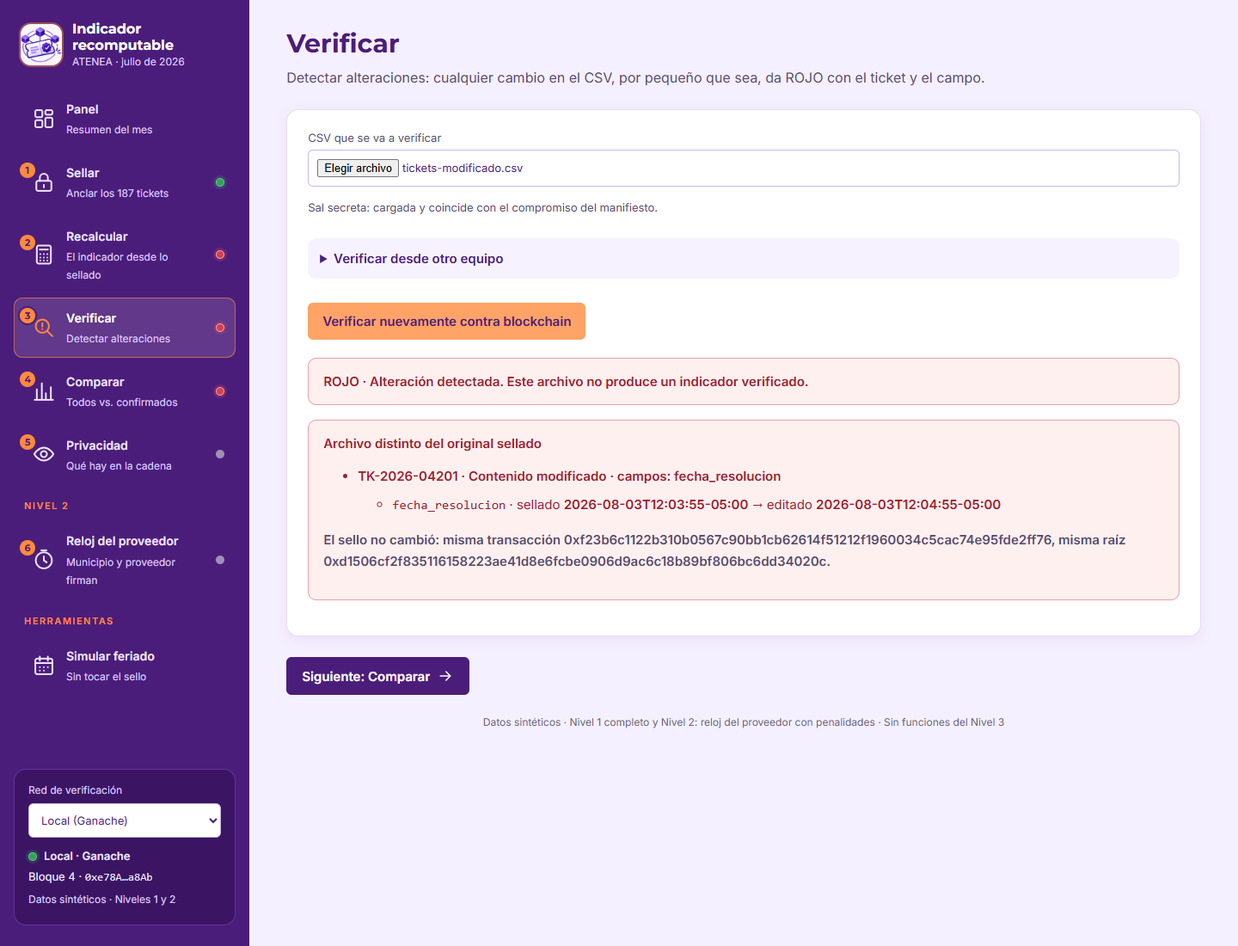
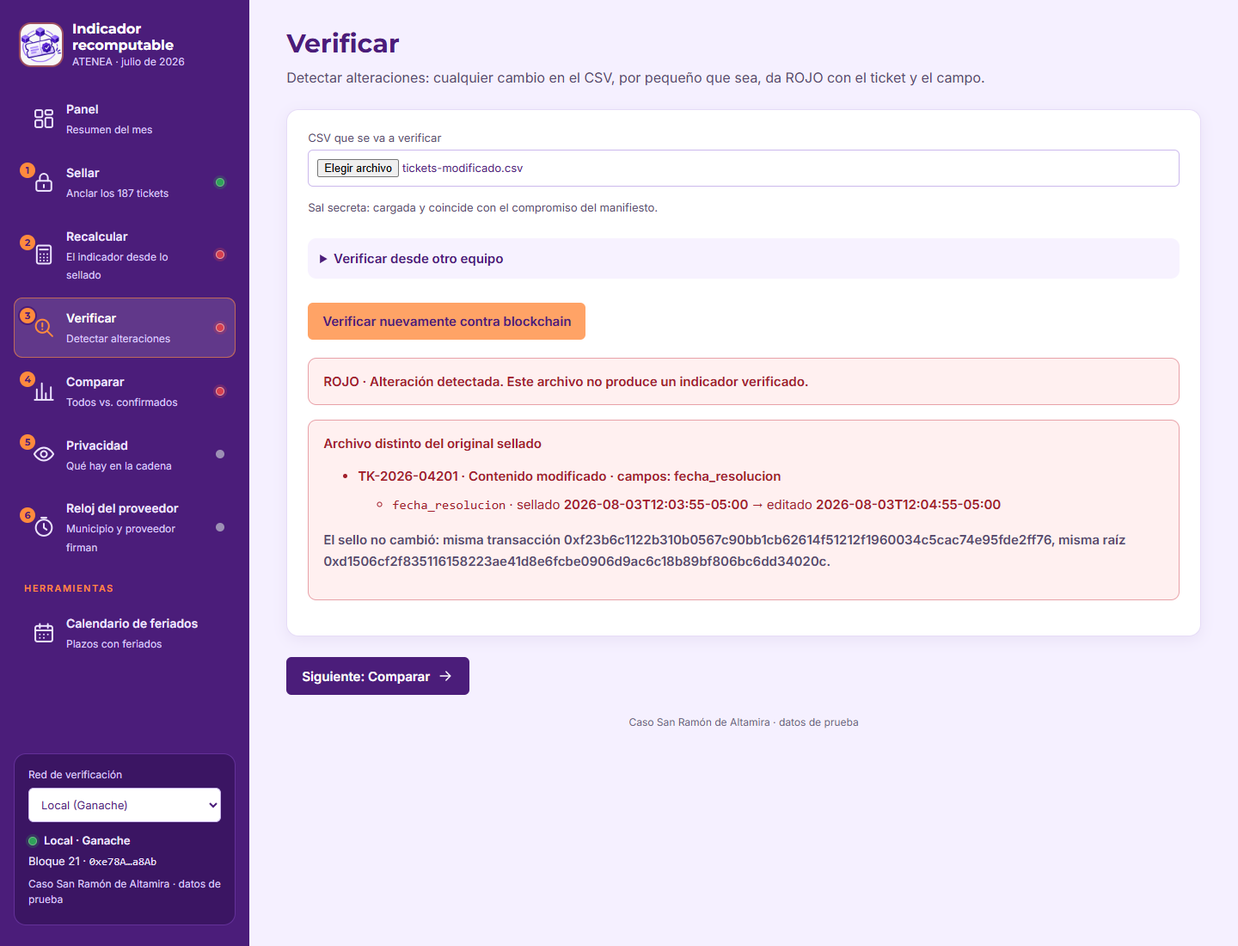
Fase 7: pulido de producto
- Lenguaje: sin «demo», «guion», «brief», «Nivel 1/2», «supuesto declarado», nombres de
  archivo ni «red de desarrollo real» en la interfaz. «Guion de la demo» → «Verificación
  del mes»; sin la etiqueta «NIVEL 2» en el menú; pie y tarjeta de red: «Caso San Ramón de
  Altamira · datos de prueba». Las fichas de reglas muestran los valores de POLICY en
  lenguaje de operación, sin cambiar POLICY.
- Sellar: con julio sellado el botón dice «✓ Julio ya está sellado» con estilo de estado
  completado y una línea sobre el sello único e inmutable; antes de cargar, «Primero carga
  los originales». No cambia cuándo se habilita.
- Comparar: columna «Plazo (SLA)» con «Calculado» y «Declarado», ayuda ⓘ y filas marcadas
  cuando no coinciden (o cuando la bitácora corrige el plazo).
- Reloj del proveedor: «Proveedor 1/2» con la razón social debajo; en la cadena no cambia nada.
- «Calendario de feriados»: rango explicado, varios feriados, aviso de fin de semana y de
  fecha sin efecto, fuera de rango y duplicados; si falta la verificación se recalcula sola
  y, si no hay sello, indica «Primero recalcula el indicador» con un botón.
- audit.mjs: solo dos textos (Proveedor 1 y el nombre de la vista de feriados).
- npm test 58/58; verify:source 11/11. Auditoría en instancia nueva (nivel2-auditoria-f7):
  1, 2, 4, 5 y Nivel 2 APROBADO; 3 aprobado en automático (la edición manual está atada al
  sello de nivel1-v5-auditoria). Registro oficial regenerado en nivel1-v5-auditoria: 5/5 y
[…]

Changed region(s): [[0.0, 0.8036, 0.1875, 0.9582], [0.0, 0.5255, 0.1562, 0.7418], [0.4062, 0.7418, 0.8125, 0.7727]]

diff --git a/src/index.html b/src/index.html
@@ -3,7 +3,7 @@
 <head>
 <meta charset="utf-8">
 <meta name="viewport" content="width=device-width,initial-scale=1">
-<title>ATENEA · Indicador recomputable · Nivel 1</title>
+<title>ATENEA · Indicador recomputable</title>
 <link rel="icon" type="image/png" href="/src/logo.png">
 <link rel="preload" href="/src/inter-latin-400-normal.woff2" as="font" type="font/woff2" crossorigin>
 <link rel="preload" href="/src/montserrat-latin-700-normal.woff2" as="font" type="font/woff2" crossorigin>
@@ -45,7 +45,7 @@
     <button id="menuClose" class="iconbutton close" type="button" data-ui aria-label="Cerrar menú"><svg class="icon"><use href="#i-close"/></svg></button>
   </div>
 
-  <nav aria-label="Procesos de la demostración">
+  <nav aria-label="Procesos del indicador">
     <ul class="menu">
       <li><a href="#/panel" data-route="panel"><svg class="icon"><use href="#i-panel"/></svg><span class="item"><strong>Panel</strong><small>Resumen del mes</small></span></a></li>
       <li><a href="#/sellar" data-route="sellar"><span class="menu-ico"><svg class="icon"><use href="#i-lock"/></svg><span class="menu-num" aria-hidden="true">1</span></span><span class="item"><strong>Sellar</strong><small>Anclar los 187 tickets</small></span><span class="dot" data-dot="sellar" role="img" aria-label="Estado: pendiente"></span></a></li>
@@ -53,14 +53,11 @@
       <li><a href="#/verificar" data-route="verificar"><span class="menu-ico"><svg class="icon"><use href="#i-search"/></svg><span class="menu-num" aria-hidden="true">3</span></span><span class="item"><strong>Verificar</strong><small>Detectar alteraciones</small></span><span class="dot" data-dot="verificar" role="img" aria-label="Estado: pendiente"></span></a></li>
       <li><a href="#/comparar" data-route="comparar"><span class="menu-ico"><svg class="icon"><use href="#i-compare"/></svg><span class="menu-num" aria-hidden="true">4</span></span><span class="item"><strong>Comparar</strong><small>Todos vs. confirmados</small></span><span class="dot" data-dot="comparar" role="img" aria-label="Estado: pendiente"></span></a></li>
       <li><a href="#/privacidad" data-route="privacidad"><span class="menu-ico"><svg class="icon"><use href="#i-eye"/></svg><span class="menu-num" aria-hidden="true">5</span></span><span class="item"><strong>Privacidad</strong><small>Qué hay en la cadena</small></span><span class="dot" data-dot="privacidad" role="img" aria-label="Estado: pendiente"></span></a></li>
-    </ul>
-    <p class="menu-sep">Nivel 2</p>
-    <ul class="menu">
       <li><a href="#/proveedor" data-route="proveedor"><span class="menu-ico"><svg class="icon"><use href="#i-clock"/></svg><span class="menu-num" aria-hidden="true">6</span></span><span class="item"><strong>Reloj del proveedor</strong><small>Municipio y proveedor firman</small></span><span class="dot" data-dot="proveedor" role="img" aria-label="Estado: pendiente"></span></a></li>
     </ul>
     <p class="menu-sep">Herramientas</p>
     <ul class="menu">
-      <li><a href="#/feriado" data-route="feriado"><svg class="icon"><use href="#i-calendar"/></svg><span class="item"><strong>Simular feriado</strong><small>Sin tocar el sello</small></span></a></li>
+      <li><a href="#/feriado" data-route="feriado"><svg class="icon"><use href="#i-calendar"/></svg><span class="item"><strong>Calendario de feriados</strong><small>Plazos con feriados</small></span></a></li>
     </ul>
   </nav>
 
@@ -69,7 +66,7 @@
     <select id="network"><option value="local">Local (Ganache)</option><option value="sepolia">Pública (Sepolia)</option></select>
     <p class="netline"><span id="rpcDot" class="dot gray" role="img" aria-label="RPC: sin comprobar"></span><span id="netName">Conectando…</span></p>
     <p class="netmeta">Bloque <span id="netBlock">—</span> · <span id="netContract" class="hash">—</span></p>
-    <p class="netnote">Datos sintéticos · Niveles 1 y 2</p>
+    <p class="netnote">Caso San Ramón de Altamira · datos de prueba</p>
   </div>
 </aside>
 
@@ -85,17 +82,17 @@
     <article class="card stat"><h2>Brecha A − B</h2><p class="stat-value" id="sumGap">—</p><p class="small">Puntos porcentuales entre todos los cierres y los confirmados.</p></article>
   </div>
   <div class="card">
-    <h2>Guion de la demo</h2>
+    <h2>Verificación del mes</h2>
     <ol id="demoScript" class="script">
       <li data-step="1"><span class="check" role="img" aria-label="Pendiente"><svg class="icon"><use href="#i-check"/></svg></span><span><a href="#/sellar">Sellar julio</a><small>Los <strong>187</strong> tickets quedan anclados en la blockchain.</small></span></li>
       <li data-step="2"><span class="check" role="img" aria-label="Pendiente"><svg class="icon"><use href="#i-check"/></svg></span><span><a href="#/recalcular">Recalcular</a><small>Desde lo sellado: <strong>no da 98,25 %</strong>.</small></span></li>
       <li data-step="3"><span class="check" role="img" aria-label="Pendiente"><svg class="icon"><use href="#i-check"/></svg></span><span><a href="#/verificar">Detectar una alteración</a><small>Un CSV editado a mano da <strong>ROJO</strong> y señala el ticket.</small></span></li>
       <li data-step="4"><span class="check" role="img" aria-label="Pendiente"><svg class="icon"><use href="#i-check"/></svg></span><span><a href="#/comparar">Comparar</a><small>Todos los cierres frente a solo los confirmados.</small></span></li>
       <li data-step="5"><span class="check" role="img" aria-label="Pendiente"><svg class="icon"><use href="#i-check"/></svg></span><span><a href="#/privacidad">Privacidad</a><small>Ningún nombre ni contenido de ticket en la cadena.</small></span></li>
-      <li data-step="6"><span class="check" role="img" aria-label="Pendiente"><svg class="icon"><use href="#i-check"/></svg></span><span><a href="#/proveedor">Reloj del proveedor · Nivel 2</a><small>Penalidades de <strong>2.592 USD</strong> y el caso con tiempo negativo <strong>RECHAZADO</strong>.</small></span></li>
+      <li data-step="6"><span class="check" role="img" aria-label="Pendiente"><svg class="icon"><use href="#i-check"/></svg></span><span><a href="#/proveedor">Reloj del proveedor</a><small>Penalidades de <strong>2.592 USD</strong> y el caso con tiempo negativo <strong>RECHAZADO</strong>.</small></span></li>
     </ol>
   </div>
-  <aside class="notice"><strong>Universo del reto: los 187 tickets originales.</strong> <span id="scopeNote">El lote incluye reportes fuera de julio. Los conteos se muestran al validar los originales. Se usa el estado final del lote, no un corte calendario estricto.</span></aside>
+  <aside class="notice"><strong>Universo: los 187 tickets del lote de julio.</strong> <span id="scopeNote">El lote incluye reportes fuera de julio. Los conteos se muestran al validar los originales. Se usa el estado final del lote, no un corte calendario estricto.</span></aside>
 </section>
 
 <section id="s1" class="view" data-route="sellar" aria-labelledby="t-sellar" hidden>
@@ -103,14 +100,15 @@
   <div class="card">
     <p>Se valida cada archivo contra la huella de la carpeta fuente verificada. Cada columna de los tickets participa en el compromiso; del catálogo, el reporte publicado, la bitácora y las reaperturas solo entra su SHA-256. Una verificación posterior no puede cambiar el sello.</p>
     <div class="actions"><button id="load">Cargar los originales entregados</button><button id="seal" disabled>Sellar julio en blockchain</button></div>
+    <p id="sealHint" class="small seal-hint" aria-live="polite">Primero carga los originales.</p>
     <details><summary>Seleccionar los originales a mano</summary>
       <p class="small">Sus huellas deben coincidir con las de la carpeta fuente verificada.</p>
       <div class="inputs">
-        <label>tickets.csv<input id="originalTickets" type="file" accept=".csv"></label>
-        <label>catalogo_servicios.csv<input id="originalCatalog" type="file" accept=".csv"></label>
-        <label>indicador_mensual.csv<input id="originalReport" type="file" accept=".csv"></label>
-        <label>bitacora_eventos.csv<input id="originalBitacora" type="file" accept=".csv"></label>
-        <label>reaperturas.csv<input id="originalReopenings" type="file" accept=".csv"></label>
+        <label>Tickets<input id="originalTickets" type="file" accept=".csv"></label>
+        <label>Catálogo de servicios<input id="originalCatalog" type="file" accept=".csv"></label>
+        <label>Reporte mensual publicado<input id="originalReport" type="file" accept=".csv"></label>
+        <label>Bitácora de eventos<input id="originalBitacora" type="file" accept=".csv"></label>
+        <label>Reaperturas<input id="originalReopenings" type="file" accept=".csv"></label>
       </div>
       <button id="prepareFiles">Validar originales seleccionados</button>
     </details>
@@ -159,7 +157,7 @@
     <p id="saltStatus" class="small">Sal secreta: pendiente.</p>
     <details><summary>Verificar desde otro equipo</summary>
       <p class="small">En el equipo donde se selló, la evidencia y la sal se cargan solas. En otro equipo o navegador, impórtalas aquí.</p>
-      <div class="inputs"><label>Importar evidencia original (respaldo del sellado)<input id="evidenceFile" type="file" accept=".json"></label><label>Importar la sal secreta del sello (sal-202607.json)<input id="saltFile" type="file" accept=".json,.txt"></label></div>
+      <div class="inputs"><label>Importar evidencia original (respaldo del sellado)<input id="evidenceFile" type="file" accept=".json"></label><label>Importar la sal secreta del sello<input id="saltFile" type="file" accept=".json,.txt"></label></div>
     </details>
     <button id="verify">Verificar nuevamente contra blockchain</button>
     <div class="slot" data-slot="verification"></div>
@@ -183,8 +181,8 @@
     <h2>Auditoría de tickets incluidos y excluidos</h2>
     <div class="inputs"><label>Buscar ticket<input id="search" type="search" list="ticketIds" placeholder="Escribe o elige un ID, p. ej. TK-2026-04201"></label><datalist id="ticketIds"></datalist><label>Mostrar<select id="filter"><option value="all">Todos los tickets</option><option value="a">Los que cuentan en A (todos los cierres)</option><option value="notA">Los que no cuentan en A</option><option value="b">Los que cuentan en B (confirmados por el usuario)</option><option value="notB">Los que no cuentan en B (sin confirmación del usuario)</option><option value="sla">Los que tienen diferencias en el SLA</option></select></label></div>
     <p id="tableCount"></p>
-    <div class="tablewrap"><table><thead><tr><th>ID / integridad</th><th>Prioridad</th><th>Reporte / resolución</th><th>Horas calculadas / SLA</th><th>Cumplimiento</th><th>Cierre / confirmación</th><th>Cuenta en B</th></tr></thead><tbody id="tickets"></tbody></table></div>
-    <details><summary>Reglas del cálculo y límites</summary><div id="policy" class="rules"></div><p>Un cierre automático cuenta como gestionado en A, pero no demuestra una solución confirmada. El cumplimiento de SLA se audita por separado: incumplir el plazo no elimina un cierre del indicador de gestión.</p><p>Las horas se calculan de lunes a viernes entre 08:00 y 17:00 en UTC-05:00. Las horas declaradas se comparan con una tolerancia de ±0,02 h para absorber el redondeo a dos decimales. El motor descuenta los feriados configurados en src/calendar.mjs. El caso no entrega calendario oficial: se usa el supuesto explícito de cero feriados adicionales. Cambiarlo exige una nueva instancia y un nuevo sello.</p></details>
+    <div class="tablewrap"><table><thead><tr><th>ID / integridad</th><th>Prioridad</th><th>Reporte / resolución</th><th>Horas calculadas / SLA</th><th>Plazo (SLA) <span class="info-tip" tabindex="0" role="img" aria-label="Calculado: horas hábiles reales entre el reporte y la resolución. Declarado: lo que la mesa de ayuda registró en su archivo." title="Calculado: horas hábiles reales entre el reporte y la resolución. Declarado: lo que la mesa de ayuda registró en su archivo.">ⓘ</span></th><th>Cierre / confirmación</th><th>Cuenta en B</th></tr></thead><tbody id="tickets"></tbody></table></div>
+    <details><summary>Reglas del cálculo y límites</summary><div id="policy" class="rules"></div><p>Un cierre automático cuenta como gestionado en A, pero no demuestra una solución confirmada. El cumplimiento de SLA se audita por separado: incumplir el plazo no elimina un cierre del indicador de gestión.</p><p>Las horas se calculan de lunes a viernes entre 08:00 y 17:00 (UTC−05:00). Las horas declaradas se comparan con una tolerancia de ±0,02 h para absorber el redondeo a dos decimales. Los feriados se descuentan según el calendario de las reglas; hoy no incluye feriados adicionales porque no se recibió un calendario oficial. Cambiarlo exige un sello nuevo.</p></details>
   </div>
   <a class="next" href="#/privacidad" data-next="comparar" hidden>Siguiente: Privacidad <svg class="icon"><use href="#i-arrow"/></svg></a>
 </section>
@@ -194,7 +192,7 @@
   <div class="card">
     <h2>¿Qué almacenamos en blockchain?</h2>
     <p>Solo los datos técnicos del sello. Los nombres de usuarios y técnicos, las unidades y el contenido de los tickets quedan fuera de la cadena.</p>
-    <p id="networkNote" class="small">Local: EVM de desarrollo en este equipo, sirve de respaldo sin internet. Sepolia: lectura pública sin wallet ni credenciales.</p>
+    <p id="networkNote" class="small">Local: red propia de este servidor, funciona sin internet. Sepolia: lectura pública sin wallet ni credenciales.</p>
     <div class="actions"><button id="inspect" class="secondary">Consultar contrato y transacción</button><button id="searchPersonal">Buscar datos personales en la cadena</button></div>
     <div id="personal" aria-live="polite"></div>
     <div id="privacy" class="factbox"><p class="small">Pendiente de consulta real.</p></div>
@@ -202,12 +200,12 @@
     <p id="explorer" class="explorer"></p>
     <details><summary>Ver calldata, evento y almacenamiento consultados</summary><div id="onchain" class="factbox"><p class="small">Sin consulta.</p></div></details>
     <p>Un hash demuestra que un archivo coincide con lo sellado; no demuestra que sus datos fueran verdaderos antes del sellado.</p>
-    <p><a href="/contracts/RegistroIndicador.sol" target="_blank" rel="noopener">Código fuente del contrato</a> · <a id="configLink" href="/evidencias/red-local.json" target="_blank" rel="noopener">Configuración y despliegue</a> · <a href="/docs/AUDITORIA.md" target="_blank" rel="noopener">Auditoría de aceptación</a> · <a href="/docs/HALLAZGOS.md" target="_blank" rel="noopener">Hallazgos</a></p>
+    <p><a href="/contracts/RegistroIndicador.sol" target="_blank" rel="noopener">Código fuente del contrato</a> · <a id="configLink" href="/evidencias/red-local.json" target="_blank" rel="noopener">Configuración y despliegue</a></p>
   </div>
 </section>
 
 <section id="s6" class="view" data-route="proveedor" aria-labelledby="t-proveedor" hidden>
-  <header class="viewhead"><h1 id="t-proveedor" tabindex="-1">Reloj del proveedor</h1><p>Nivel 2: el municipio firma la apertura de cada caso y el proveedor su respuesta, cada uno con su propia llave. Cualquiera puede recalcular el tiempo y la penalidad.</p></header>
+  <header class="viewhead"><h1 id="t-proveedor" tabindex="-1">Reloj del proveedor</h1><p>El municipio firma la apertura de cada caso y el proveedor su respuesta, cada uno con su propia llave. Cualquiera puede recalcular el tiempo y la penalidad.</p></header>
   <div class="card">
     <div id="signers" class="signers"></div>
     <div class="actions"><button id="loadCases" type="button">Cargar los 9 casos</button><button id="thirdParty" type="button" class="secondary" hidden>Recalcular como tercero</button></div>
@@ -217,24 +215,29 @@
     <div id="caseTotal" class="verdict" aria-live="polite"></div>
     <div id="caseRejected"></div>
     <div class="card">
-      <h2>Casos de tickets_proveedor.csv</h2>
+      <h2>Casos del proveedor</h2>
       <div class="tablewrap"><table class="cases"><thead><tr><th>Caso</th><th>Abre → responde</th><th>Apertura</th><th>Respuesta</th><th>Horas</th><th>SLA (h)</th><th>Cumple</th><th>Penalidad del contrato</th><th>Penalidad que declaraba el CSV</th><th>Tercero</th></tr></thead><tbody id="cases"></tbody></table></div>
-      <p class="small">Supuesto: el SLA contractual se mide en horas corridas, no hábiles, porque así vienen los datos. Fechas en UTC−05:00.</p>
+      <p class="small">El plazo contractual se mide en horas corridas, no hábiles, tal como lo registran el municipio y el proveedor. Fechas en UTC−05:00.</p>
     </div>
   </div>
 </section>
 
 <section id="holiday" class="view" data-route="feriado" aria-labelledby="t-feriado" hidden>
-  <header class="viewhead"><h1 id="t-feriado" tabindex="-1">Simular feriado</h1><p>Sin tocar el sello: el efecto de una fecha concreta sobre los tickets ya verificados.</p></header>
+  <header class="viewhead"><h1 id="t-feriado" tabindex="-1">Calendario de feriados</h1><p>Agrega feriados y observa cómo cambian los plazos de atención. El registro sellado no se modifica.</p></header>
   <div class="card">
-    <p>El brief exige descontar feriados, pero el caso no entrega un calendario oficial: el sello usa una lista vacía como supuesto declarado (<a href="/docs/CALENDARIO.md" target="_blank" rel="noopener">docs/CALENDARIO.md</a>). Aquí puedes ver qué pasaría con una fecha concreta. Se recalcula en el navegador sobre los tickets verificados.</p>
-    <div class="inputs"><label>Fecha del feriado<input id="holidayDate" type="date" value="2026-07-24" min="2026-07-01" max="2026-08-31"></label></div>
-    <button id="simulate">Simular feriado</button>
+    <p>El cálculo sellado no descuenta feriados adicionales, porque no se recibió un calendario oficial. Aquí puedes probar uno o varios feriados sobre los tickets verificados; el cálculo se hace en el navegador.</p>
+    <div class="holiday-form">
+      <label>Fecha del feriado<input id="holidayDate" type="date" value="2026-07-24" min="2026-07-01" max="2026-08-31" aria-describedby="holidayRange"></label>
+      <button id="addHoliday" type="button" class="secondary">Agregar feriado</button>
+    </div>
+    <p id="holidayRange" class="small">Fechas permitidas: del 1 de julio al 31 de agosto de 2026, el período en que se reportaron y resolvieron los tickets. Los sábados y domingos ya no cuentan como horas hábiles, así que no cambian los plazos.</p>
+    <ul id="holidayList" class="holiday-list" aria-live="polite"></ul>
+    <button id="simulate">Calcular plazos con estos feriados</button>
     <div id="holidayResult" aria-live="polite"></div>
   </div>
 </section>
 
-<footer class="footer">Datos sintéticos · Nivel 1 completo y Nivel 2: reloj del proveedor con penalidades · Sin funciones del Nivel 3</footer>
+<footer class="footer">Caso San Ramón de Altamira · datos de prueba</footer>
 </main>
 </div>
 </body>

diff --git a/src/style.css b/src/style.css
@@ -473,7 +473,7 @@ table.summary td.num { font-family: var(--font-display); font-size: 18px; font-w
 /* ---------- Nivel 2 · Reloj del proveedor ---------- */
 .info { background: var(--surface-soft); color: var(--ink); border: 1px solid var(--border); }
 .signer-list { list-style: none; margin: 0 0 var(--space-3); padding: 0; display: grid; grid-template-columns: repeat(auto-fit, minmax(min(220px, 100%), 1fr)); gap: var(--space-3); line-height: 1.4; }
-.signer-list li { display: flex; flex-direction: column; gap: 2px; padding: var(--space-3) var(--space-4); border-radius: var(--radius); background: var(--surface-soft); border: 1px solid var(--border); color: var(--text); }
+.signer-list li { display: flex; flex-direction: column; gap: 3px; padding: var(--space-3) var(--space-4); border-radius: var(--radius); background: var(--surface-soft); border: 1px solid var(--border); color: var(--text); }
 .signer-list strong { font-family: var(--font-display); font-size: 17px; color: var(--ink); }
 .signer-list .hash { color: var(--muted); }
 .verdict-main.case-total strong { font-size: clamp(40px, 6vw, 60px); line-height: 1.1; }
@@ -484,6 +484,31 @@ table.cases tr.rejected td { background: var(--red-bg); color: var(--red); }
 table.cases tr.rejected strong { color: var(--red); }
 .match { font-weight: 700; color: var(--green); }
 .nomatch { font-weight: 700; color: var(--red); }
+
+.razon { display: block; font-size: 12px; font-weight: 400; color: var(--muted); line-height: 1.35; }
+table.cases td.small { white-space: normal; min-width: 190px; }
+
+/* ---------- Pulido de producto ---------- */
+/* Sellar: julio ya sellado se muestra como estado completado, no como botón gris deshabilitado. */
+button.sealed-done:disabled { background: #eee6fb; color: var(--ink); border: 1px solid var(--border-strong); cursor: default; }
+.seal-hint { margin: 0 0 var(--space-2); color: var(--text); }
+.seal-hint:empty { display: none; }
+/* Comparar: filas donde lo calculado y lo declarado no coinciden. */
+tr.sla-mismatch td { background: var(--amber-bg); }
+tr.sla-mismatch td:first-child { box-shadow: inset 4px 0 0 var(--amber); }
+.mismatch-tag { display: inline-block; margin-top: 2px; font-weight: 700; color: var(--amber-ink); }
+.info-tip { display: inline-grid; place-items: center; width: 18px; height: 18px; margin-left: 2px; border-radius: 50%; font-size: 13px; font-weight: 700; color: var(--teal); cursor: help; vertical-align: middle; }
+/* Calendario de feriados: campo, botón para agregar y lista de fechas elegidas. */
+.holiday-form { display: flex; flex-wrap: wrap; align-items: flex-end; gap: var(--space-3); margin: var(--space-3) 0 var(--space-2); }
+.holiday-form label { flex: 0 1 260px; }
+.holiday-form button { margin: 0; }
+.holiday-list { list-style: none; margin: var(--space-2) 0 var(--space-4); padding: 0; display: flex; flex-wrap: wrap; gap: var(--space-2); line-height: 1.4; }
+.holiday-list li { display: inline-flex; align-items: center; gap: var(--space-2); padding: 6px 6px 6px 14px; border-radius: 999px; background: var(--surface-soft); border: 1px solid var(--border-strong); color: var(--ink); font-size: 14px; }
+.holiday-list li.weekend { background: var(--amber-bg); border-color: var(--amber-line); color: var(--amber-ink); }
+.holiday-list li.empty { padding: 6px 14px; border-style: dashed; color: var(--text); }
+.chip-remove { width: 26px; height: 26px; padding: 0; margin: 0; border-radius: 50%; background: #fff; color: var(--ink); border: 1px solid var(--border-strong); font-size: 16px; line-height: 1; }
+.chip-remove:hover { background: var(--surface-soft); }
+.holiday-notes { margin: var(--space-3) 0; padding-left: 20px; line-height: 1.7; color: var(--text); }
 
 /* Comparar vacío: un aviso y el botón para recalcular ahí mismo. */
 .compare-start { display: flex; flex-wrap: wrap; align-items: center; justify-content: space-between; gap: var(--space-3); border-left: 6px solid var(--action); }

diff --git a/docs/AUDITORIA.md b/docs/AUDITORIA.md
@@ -1,6 +1,6 @@
 # Auditoría Nivel 1 — Reto 03
 
-Ejecución UTC: 2026-11-12T23:20:14.450Z → 2026-11-12T23:24:58.033Z. Zona de presentación: America/Guayaquil.
+Ejecución UTC: 2026-11-13T02:08:26.865Z → 2026-11-13T02:09:41.278Z. Zona de presentación: America/Guayaquil.
 
 Resultado: **NIVEL 1 COMPLETO**.
 
@@ -80,7 +80,7 @@ Resultado: **NIVEL 2 COMPLETO**.
 - Edición manual realizada y confirmada por el usuario; CSV y transacción autenticados nuevamente. Las pruebas automáticas y la edición manual se ejecutaron en sesiones distintas. El guion completo debe ensayarse por el expositor.
 - Las pruebas unitarias se ejecutan con npm test; sus resultados se conservan por separado en evidencias/pruebas-unitarias.txt. No se confunden los anclajes de pruebas unitarias con el sello real de aceptación.
 - La EVM local (Ganache) es el respaldo sin internet; no es una red pública. Ganache conserva bloques y estado por instancia en .instances/. Es necesario npm start para consultar las evidencias por RPC; el JSON y las capturas por sí solos no reemplazan esa consulta.
-- El motor descuenta feriados configurados. Se usa lista vacía como supuesto explícito porque no se entregó calendario oficial. Ver docs/CALENDARIO.md. El panel «Simular feriado» muestra el efecto sin sellar.
+- El motor descuenta feriados configurados. Se usa lista vacía como supuesto explícito porque no se entregó calendario oficial. Ver docs/CALENDARIO.md. La vista «Calendario de feriados» muestra el efecto sin sellar.
 - El ancla pública en Sepolia se despliega con npm run deploy:sepolia y npm run seal:sepolia; sin evidencias/red-sepolia.json la auditoría solo comprueba que la interfaz lo declara pendiente.
 - Un sello acredita integridad posterior al anclaje, no veracidad ni cumplimiento institucional anterior.
 - Nivel 2: en la demo las llaves del municipio y de los proveedores están en el mismo servidor (cuentas de Ganache). En la realidad cada organización guarda la suya y firma desde su propio equipo; el contrato ya exige que cada paso lo firme la cuenta correcta.
